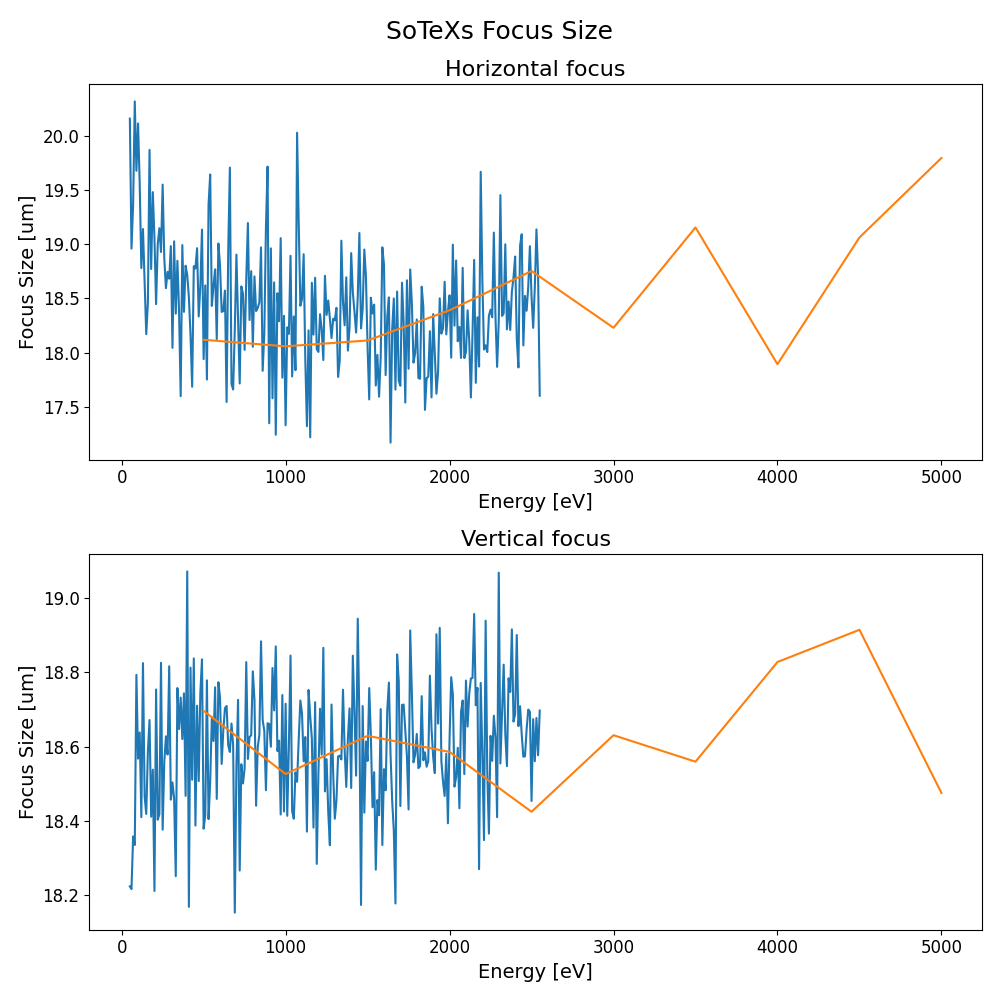
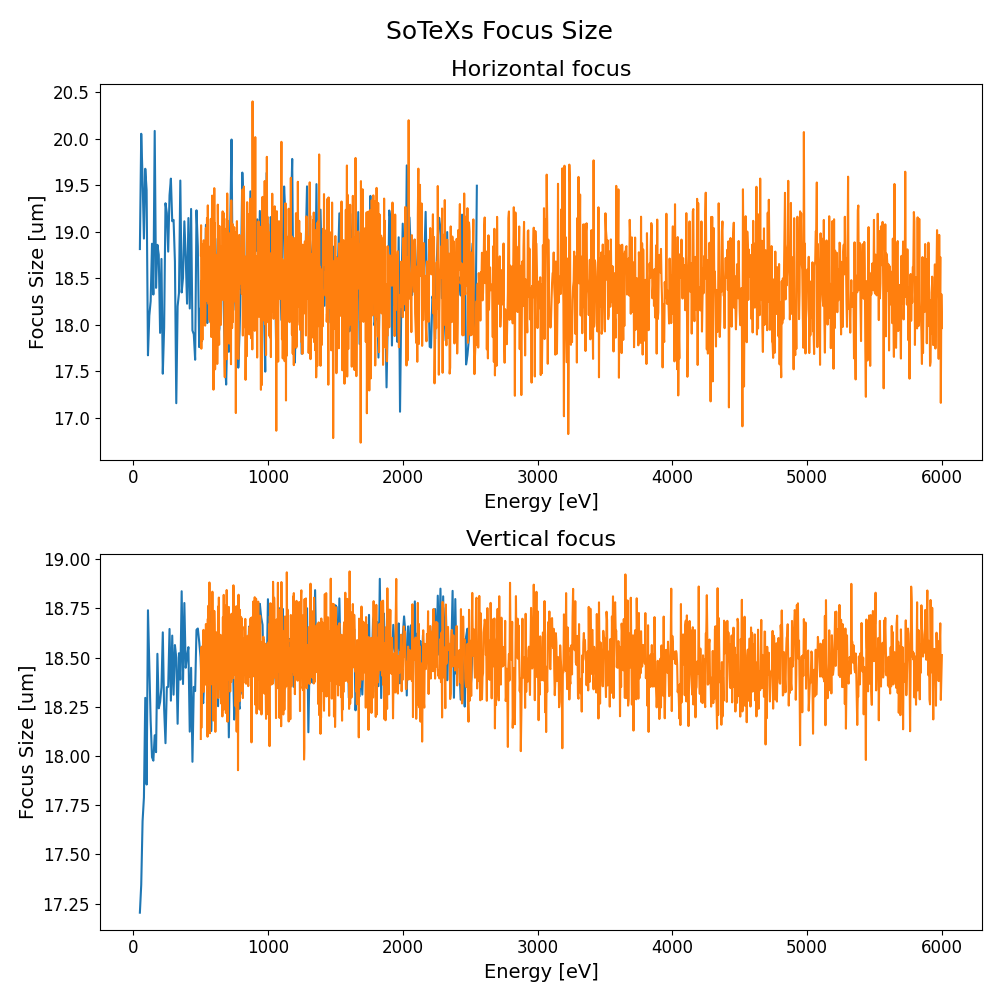
update simulations

diff --git a/simulation/3/eval_kick-off.py b/simulation/3/eval_kick-off.py
@@ -50,7 +50,7 @@ plt.rcParams['xtick.labelsize'] = 12
 plt.rcParams['ytick.labelsize'] = 12
 
 # plotting Flux and RP
-fig, (axs) = plt.subplots(3, 2,figsize=(10,10))
+fig, (axs) = plt.subplots(2, 2,figsize=(20,10))
 log = False
 # MIRROR COATING
 ax=axs[0,0]
@@ -58,7 +58,7 @@ ax=axs[0,0]
 de = 38.9579-30.0000
 table = 'Henke'
 theta = 0.8
-E = np.arange(50, 5001, de)
+E = np.arange(50, 6001, de)
 # triple coating
 Ir  = rm.Material('Ir',  rho=22.56, kind='mirror',table=table)
 Cr  = rm.Material('Cr',  rho=7.15,  kind='mirror',table=table)
@@ -70,6 +70,7 @@ IrCrB4C, _ = get_reflectivity(IrCrB4C, E=E, theta=theta)
 
 
 ax.plot(E, IrCrB4C, 'blue', label='IrCrB4C')
+ax.plot(E, IrCrB4C**4, 'red', label='IrCrB4C, 4 mirrors')
 
 ax.set_xlabel('Energy [eV]')
 ax.set_ylabel('Reflectivity [a.u.]')
@@ -84,31 +85,10 @@ ax.plot(undulator_spectra[:,0], undulator_spectra[:,3])
 ax.set_title('CPMU20 Flux')
 ax.grid(which='both', axis='both')
 
-ax.set_ylabel('Flux [ph/s/0.1A/0.1%bw]')
-
-# AVAILABLE FLUX IN PERCENTAGE
-ax = axs[1,0]
-energy1200 = flux1200['CPMU20.photonEnergy']
-perc_flux_1200 = flux1200['PercentageRaysSurvived']
-
-ax.plot(energy1200,perc_flux_1200, label=f'1200 l/mm' )
-
-ax.set_xlabel(r'Energy [eV]')
-ax.set_ylabel('Transmission [%]')
-ax.set_title('Available Flux (in transmitted bandwidth)')
-ax.grid(which='both', axis='both')
-if log:
-    ax.set_yscale('log')
-
-# Define a custom formatter function to display labels as floats with two decimal places
-def custom_formatter(x, pos):
-    return f"{x:.2}%"
-
-# Apply the custom formatter to the y-axis
-ax.yaxis.set_major_formatter(ticker.FuncFormatter(custom_formatter))
+ax.set_ylabel('Flux [ph/s/0.1A/0.1%BW]')
 
 # AVAILABLE FLUX ABSOLUTE
-ax = axs[1,1]
+ax = axs[1,0]
 energy_1200 = flux1200['CPMU20.photonEnergy']
 perc_flux_1200 = flux1200['PercentageRaysSurvived']
 abs_flux_1200 = scale_undulator_flux(energy_1200,
@@ -125,18 +105,18 @@ abs_flux_ml = scale_undulator_flux(energy_ml,
                                      undulator_file_path)
 
 ax.plot(energy_1200, abs_flux_1200, label=f'1200 l/mm' )
-ax.plot(energy_ml, abs_flux_ml, label=f'ML' )
+ax.plot(energy_ml, abs_flux_ml, label=f'2400 l/mm + ML' )
 if log:
     ax.set_yscale('log')
 ax.set_xlabel('Energy [eV]')
-ax.set_ylabel('Flux [ph/s/0.1A/tbw]')
+ax.set_ylabel('Flux [ph/s/0.1A/TBW]')
 ax.grid(which='both', axis='both')
-ax.set_title('Available Flux (absolute)')
+ax.set_title('Flux')
 # ax.legend(loc='upper left', bbox_to_anchor=(1, 1))
-ax.legend()
+ax.legend(title='cff=2.25, ES=50μm')
 
 # BANDWIDTH
-ax = axs[2,0]
+ax = axs[1,1]
 energy_1200 = rp1200['CPMU20.photonEnergy']
 bw_1200 = rp1200['Bandwidth']
 energy_ml = rpml['CPMU20.photonEnergy']
@@ -152,104 +132,13 @@ inv_energy_line = 6000 / energy_ml
 
 ax.set_xlabel('Energy [eV]')
 ax.set_ylabel('Transmitted Bandwidth [eV]')
-ax.set_title('Transmitted bandwidth (tbw)')
+ax.set_title('Transmitted Bandwidth (TBW)')
 ax.grid(which='both', axis='both')
 
 
-# RESOLVING POWER
-ax = axs[2,1]
-energy_1200 = rp1200['CPMU20.photonEnergy']
-bw_1200 = rp1200['Bandwidth']
-energy_ml = rpml['CPMU20.photonEnergy']
-bw_ml = rpml['Bandwidth']
-
-ax.plot(energy_1200,energy_1200/bw_1200)
-ax.plot(energy_ml,energy_ml/bw_ml)
-ax.axhline(y=6000, color='r', linestyle='--', label='RP 6000')
-
-ax.set_xlabel('Energy [eV]')
-ax.set_ylabel('RP [a.u.]')
-ax.set_title('Resolving Power')
-ax.grid(which='both', axis='both')
 
 plt.suptitle('SoTeXs', fontsize=suptitle_size)
 plt.tight_layout()
-plt.savefig('plot/SoTeXs.png')
-
-# plotting Flux and RP
-fig, (axs) = plt.subplots(2, 1,figsize=(10,10))
-
-# HORIZONTAL FOCUS
-ax = axs[0]
-energy_1200 = rp1200['CPMU20.photonEnergy']
-focx_1200 = rp1200['HorizontalFocusFWHM']
-energy_ml = rpml['CPMU20.photonEnergy']
-focx_ml = rpml['HorizontalFocusFWHM']
-
-ax.plot(energy_1200,focx_1200*1000)
-ax.plot(energy_ml,focx_ml*1000)
-
-ax.set_xlabel('Energy [eV]')
-ax.set_ylabel('Focus Size [um]')
-ax.set_title('Horizontal focus')
-
-# VERTICAL FOCUS
-ax = axs[1]
-energy_1200 = rp1200['CPMU20.photonEnergy']
-focy_1200 = rp1200['VerticalFocusFWHM']
-energy_ml = rpml['CPMU20.photonEnergy']
-focy_ml = rpml['VerticalFocusFWHM']
-
-ax.plot(energy_1200,focy_1200*1000)
-ax.plot(energy_ml,focy_ml*1000)
-
-ax.set_xlabel('Energy [eV]')
-ax.set_ylabel('Focus Size [um]')
-ax.set_title('Vertical focus')
-
-plt.suptitle('SoTeXs Focus Size', fontsize=suptitle_size)
-plt.tight_layout()
-plt.savefig('plot/SoTeXs-Focus.png')
-# plt.show()
-
-
-fig, (axs) = plt.subplots(2, 1,figsize=(10,10))
-
-
-# PERMIL BANDWIDTH
-ax = axs[0]
-energy_1200 = rp1200['CPMU20.photonEnergy']
-permil_bw_1200 = flux1200['EnergyPerMilPerBw']
-permil_bw_ml = fluxml['EnergyPerMilPerBw']
-
-
-ax.plot(energy_1200/1000,permil_bw_1200, label=f'1200 l/mm')
-ax.plot(energy_ml/1000,permil_bw_ml, label=f'ML')
-
-ax.set_xlabel('Energy [keV]')
-ax.set_ylabel('Energy/1000/bandwidth [a.u.]')
-ax.set_title('PerMil Transmission')
-ax.grid(which='both', axis='both')
-ax.legend()
-
-
-# PERMIL FLUX 
-ax = axs[1]
-energy1200 = flux1200['CPMU20.photonEnergy']
-permil_flux_1200 = flux1200['FluxPerMilPerBwPerc']
-permil_flux_ml = fluxml['FluxPerMilPerBwPerc']
-
-ax.plot(energy_1200,permil_flux_1200)
-ax.plot(energy_ml,permil_flux_ml)
-
-ax.set_xlabel(r'Energy [eV]')
-ax.set_ylabel('Flux [ph/s/0.1A/tbw]')
-ax.set_title('Transmission / Per Mil bandwidth')
-ax.grid(which='both', axis='both')
-# ax.set_yscale('log')
-
-plt.suptitle('SoTeXs PerMil', fontsize=suptitle_size)
-plt.tight_layout()
-plt.savefig('plot/SoTeXs-PerMil.png')
+plt.savefig('plot/SoTeXs_kickoff.png')
 
 

diff --git a/simulation/3/params.py b/simulation/3/params.py
@@ -2,7 +2,8 @@ import numpy as np
 import os
 import pandas as pd
 
-rounds = 5
+rounds_1200 = 20
+rounds_ml = 10
 cpu    = 30
 nrays  = 5e5
 
@@ -16,8 +17,8 @@ hb_1200_blaze       = np.array([0.9])
 hb_1200_cff         = np.array([2.25])
 hb_1200_nrays_flux  = nrays
 hb_1200_nrays_rp    = nrays 
-hb_1200_rounds_flux = rounds
-hb_1200_rounds_rp   = rounds
+hb_1200_rounds_flux = rounds_1200
+hb_1200_rounds_rp   = rounds_1200
 hb_1200_ncpu_flux   = cpu
 hb_1200_ncpu_rp     = cpu
 
@@ -39,8 +40,8 @@ ml_SlitSize     = np.array([0.05])
 ml_grating      = np.array([2400])
 ml_nrays_flux   = nrays
 ml_nrays_rp     = nrays 
-ml_rounds_flux  = rounds
-ml_rounds_rp    = rounds
+ml_rounds_flux  = rounds_ml
+ml_rounds_rp    = rounds_ml
 ml_ncpu_flux    = cpu
 ml_ncpu_rp      = cpu
 
